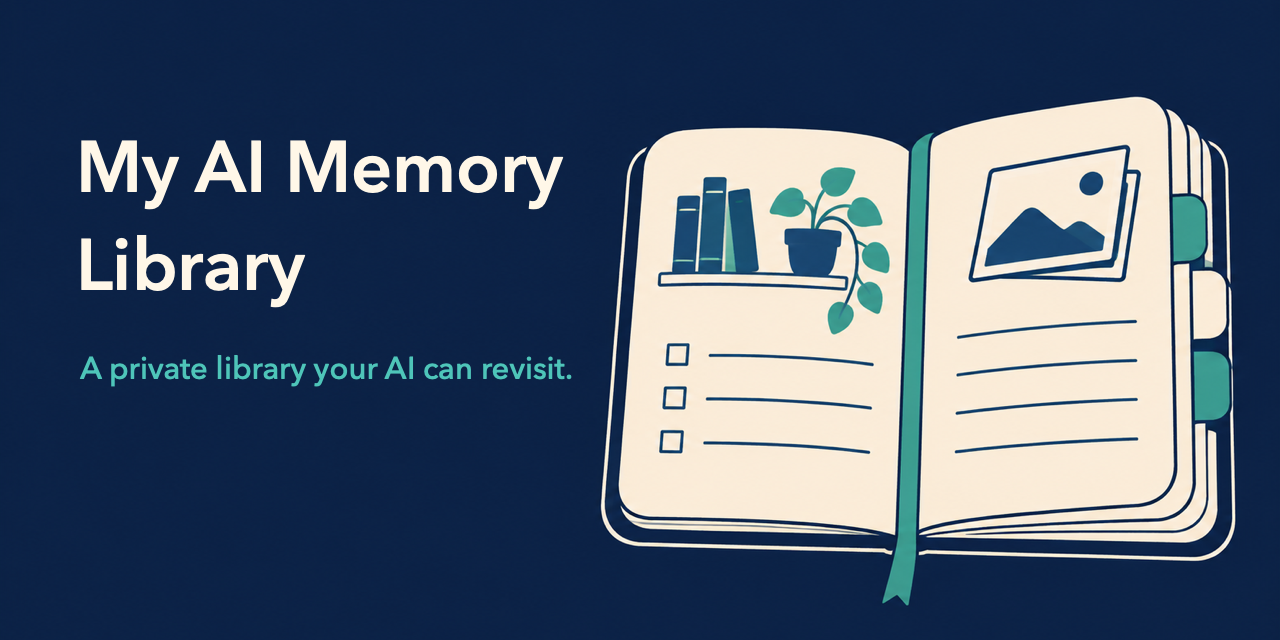
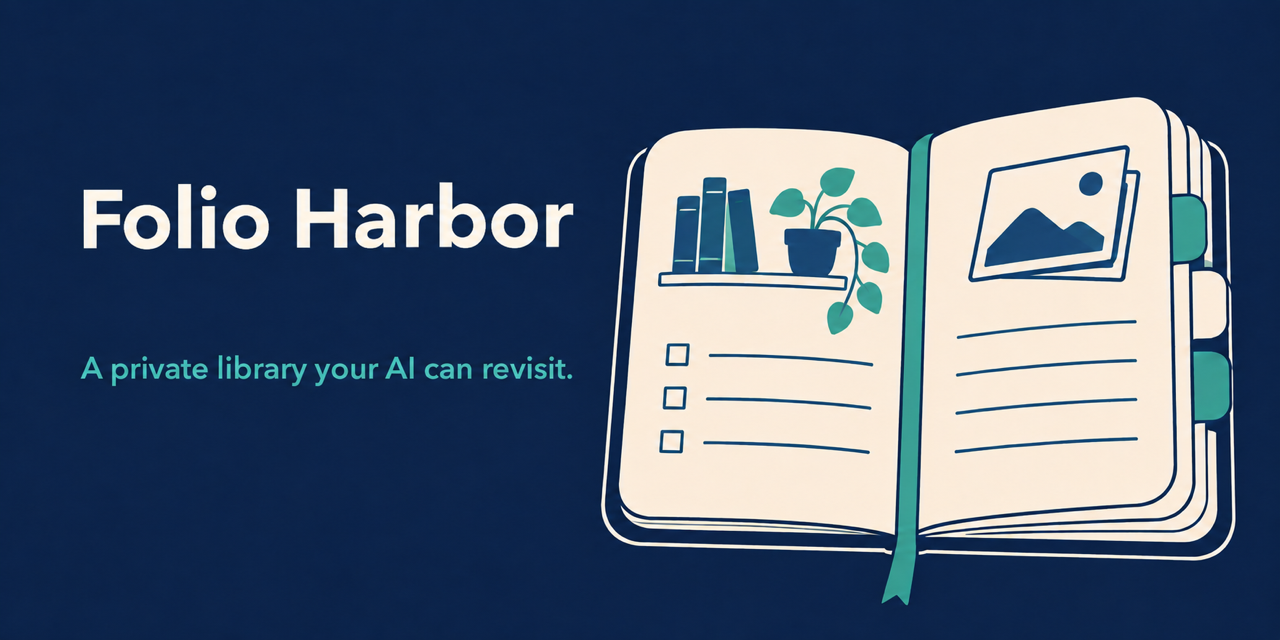
Rename project to Folio Harbor

diff --git a/scripts/build-index.test.ts b/scripts/build-index.test.ts
@@ -26,7 +26,7 @@ ${body}
 }
 
 async function fixture(): Promise<string> {
-  const root = await mkdtemp(join(tmpdir(), "my-ai-memory-library-"));
+  const root = await mkdtemp(join(tmpdir(), "folio-harbor-"));
   await mkdir(join(root, "notes"));
   return root;
 }

diff --git a/README.md b/README.md
@@ -1,12 +1,12 @@
-<img src="assets/logo.svg" alt="My AI Memory Library logo" width="64" height="64">
+<img src="assets/logo.svg" alt="Folio Harbor logo" width="64" height="64">
 
-# My AI Memory Library
+# Folio Harbor
 
 **A private library your AI can revisit.**
 
 Keep useful knowledge as Markdown files in a private GitHub repository. Ask a compatible AI assistant to save a short note after a conversation, then ask it to find that note later. The notes stay readable without the assistant, the search index, or this project.
 
-My AI Memory Library is a template and a small index builder. It does not run an AI model. Your assistant supplies the conversation; GitHub stores the notes and their history.
+Folio Harbor is a template and a small index builder. It does not run an AI model. Your assistant supplies the conversation; GitHub stores the notes and their history.
 
 ## Start here
 
